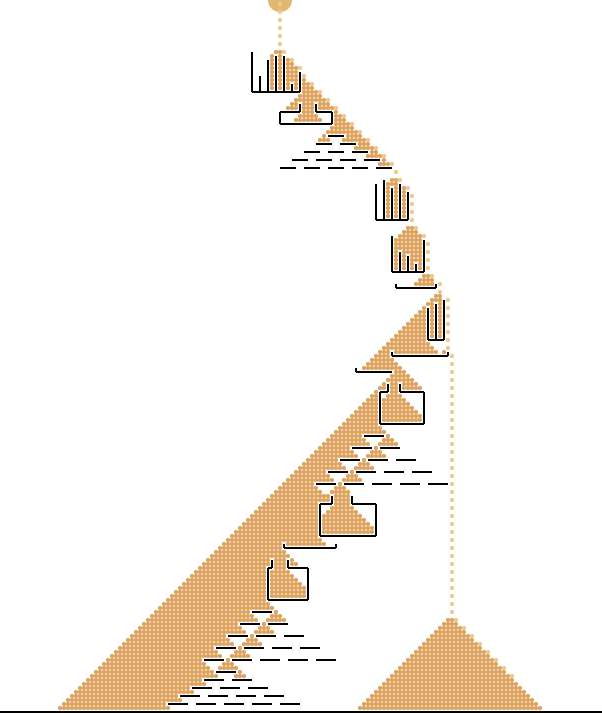
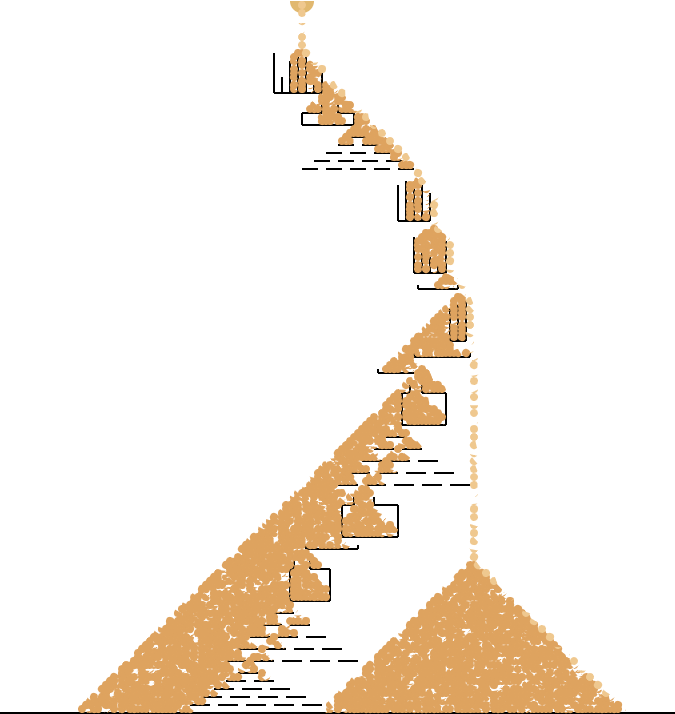
much effects so cool

Changed region(s): [[0.0897, 0.0, 0.9269, 1.0]]

diff --git a/2022/day14/script.anim.js b/2022/day14/script.anim.js
@@ -61,7 +61,7 @@ const initBackground = () => {
 const drawGrain = (ctx, grain) => {
     ctx.fillStyle = grain.state == 'solid' ? '#F4A460' : '#ffc98F';
     ctx.beginPath();
-    ctx.arc((grain.pos[0]-shift)*scale, grain.pos[1]*scale, scale/2, 0, 2 * Math.PI);
+    ctx.arc((grain.pos[0]-shift)*scale, grain.pos[1]*scale, scale, Math.random()*Math.PI/4, Math.random()* 3 * Math.PI);
     ctx.fill();
 }
 
